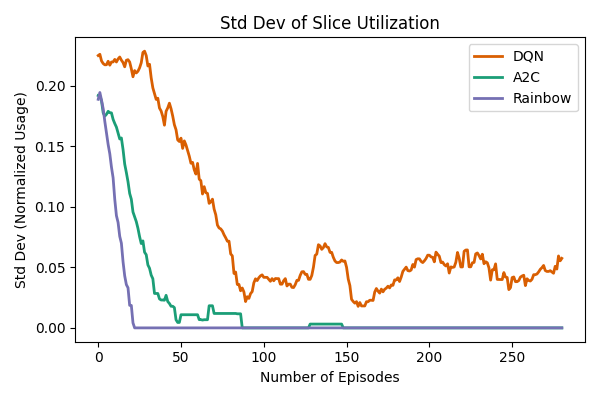
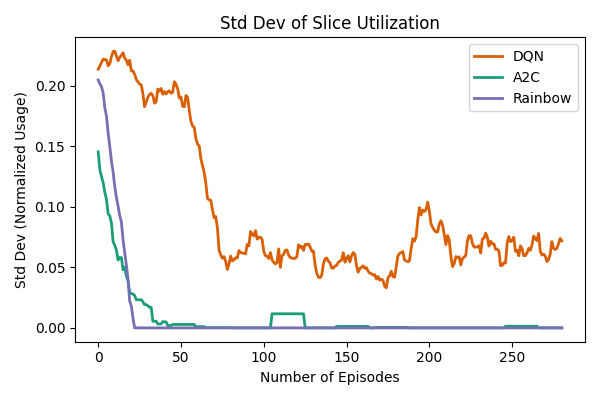
Block rate by slice type

diff --git a/Compare.py b/Compare.py
@@ -33,6 +33,15 @@ rdqn_max_util = []
 dqn_min_util = []
 a2c_min_util = []
 rdqn_min_util = []
+dqn_urllc_blocks = []
+a2c_urllc_blocks = []
+rdqn_urllc_blocks = []
+dqn_embb_blocks = []
+a2c_embb_blocks = []
+rdqn_embb_blocks = []
+dqn_mmtc_blocks = []
+a2c_mmtc_blocks = []
+rdqn_mmtc_blocks = []
 
 print("Checking shapes of all metrics across runs...")
 
@@ -77,6 +86,16 @@ for run_id in range(1, NUM_RUNS + 1):
         dqn_min_util.append(safe_load_metric(dqn_results, 'min_util', max_length))
         a2c_min_util.append(safe_load_metric(a2c_results, 'min_util', max_length))
         rdqn_min_util.append(safe_load_metric(rdqn_results, 'min_util', max_length))
+        # Block histories
+        dqn_urllc_blocks.append(safe_load_metric(dqn_results, 'urllc_blocks', max_length))
+        a2c_urllc_blocks.append(safe_load_metric(a2c_results, 'urllc_blocks', max_length))
+        rdqn_urllc_blocks.append(safe_load_metric(rdqn_results, 'urllc_blocks', max_length))
+        dqn_embb_blocks.append(safe_load_metric(dqn_results, 'embb_blocks', max_length))
+        a2c_embb_blocks.append(safe_load_metric(a2c_results, 'embb_blocks', max_length))
+        rdqn_embb_blocks.append(safe_load_metric(rdqn_results, 'embb_blocks', max_length))
+        dqn_mmtc_blocks.append(safe_load_metric(dqn_results, 'mmtc_blocks', max_length))
+        a2c_mmtc_blocks.append(safe_load_metric(a2c_results, 'mmtc_blocks', max_length))
+        rdqn_mmtc_blocks.append(safe_load_metric(rdqn_results, 'mmtc_blocks', max_length))
     else:
         print(f"Warning: One or more of {dqn_file}, {a2c_file}, or {rdqn_file} not found!")
 
@@ -92,6 +111,15 @@ rdqn_max_util = np.array(rdqn_max_util)
 dqn_min_util = np.array(dqn_min_util)
 a2c_min_util = np.array(a2c_min_util)
 rdqn_min_util = np.array(rdqn_min_util)
+dqn_urllc_blocks = np.array(dqn_urllc_blocks)
+a2c_urllc_blocks = np.array(a2c_urllc_blocks)
+rdqn_urllc_blocks = np.array(rdqn_urllc_blocks)
+dqn_embb_blocks = np.array(dqn_embb_blocks)
+a2c_embb_blocks = np.array(a2c_embb_blocks)
+rdqn_embb_blocks = np.array(rdqn_embb_blocks)
+dqn_mmtc_blocks = np.array(dqn_mmtc_blocks)
+a2c_mmtc_blocks = np.array(a2c_mmtc_blocks)
+rdqn_mmtc_blocks = np.array(rdqn_mmtc_blocks)
 
 # Generate random baseline for load balancing metric
 random_usage = []
@@ -119,6 +147,15 @@ mean_rdqn_max = np.nanmean(rdqn_max_util, axis=0)
 mean_dqn_min = np.nanmean(dqn_min_util, axis=0)
 mean_a2c_min = np.nanmean(a2c_min_util, axis=0)
 mean_rdqn_min = np.nanmean(rdqn_min_util, axis=0)
+mean_dqn_urllc_blocks = np.nanmean(dqn_urllc_blocks, axis=0)
+mean_a2c_urllc_blocks = np.nanmean(a2c_urllc_blocks, axis=0)
+mean_rdqn_urllc_blocks = np.nanmean(rdqn_urllc_blocks, axis=0)
+mean_dqn_embb_blocks = np.nanmean(dqn_embb_blocks, axis=0)
+mean_a2c_embb_blocks = np.nanmean(a2c_embb_blocks, axis=0)
+mean_rdqn_embb_blocks = np.nanmean(rdqn_embb_blocks, axis=0)
+mean_dqn_mmtc_blocks = np.nanmean(dqn_mmtc_blocks, axis=0)
+mean_a2c_mmtc_blocks = np.nanmean(a2c_mmtc_blocks, axis=0)
+mean_rdqn_mmtc_blocks = np.nanmean(rdqn_mmtc_blocks, axis=0)
 
 def smooth(data, window=20):
     return np.convolve(data, np.ones(window)/window, mode='valid')
@@ -165,7 +202,49 @@ def plot_std_metric():
     plt.savefig('Std_Utilization.png')
     plt.close()
 
+def plot_block_rate_urllc():
+    plt.figure(figsize=(6, 4))
+    plt.plot(smooth(mean_dqn_urllc_blocks), label='DQN', color='#d95f02', linestyle='-')
+    plt.plot(smooth(mean_a2c_urllc_blocks), label='A2C', color='#1b9e77', linestyle='-')
+    plt.plot(smooth(mean_rdqn_urllc_blocks), label='Rainbow', color='#7570b3', linestyle='-')
+    plt.title("Block Rate - URLLC Slice")
+    plt.xlabel("Number of Episodes")
+    plt.ylabel("Mean Block Count per Episode")
+    plt.legend()
+    plt.tight_layout()
+    plt.savefig('Block_Rate_URRLC.png')
+    plt.close()
+
+def plot_block_rate_embb():
+    plt.figure(figsize=(6, 4))
+    plt.plot(smooth(mean_dqn_embb_blocks), label='DQN', color='#d95f02', linestyle='--')
+    plt.plot(smooth(mean_a2c_embb_blocks), label='A2C', color='#1b9e77', linestyle='--')
+    plt.plot(smooth(mean_rdqn_embb_blocks), label='Rainbow', color='#7570b3', linestyle='--')
+    plt.title("Block Rate - eMBB Slice")
+    plt.xlabel("Number of Episodes")
+    plt.ylabel("Mean Block Count per Episode")
+    plt.legend()
+    plt.tight_layout()
+    plt.savefig('Block_Rate_eMBB.png')
+    plt.close()
+
+def plot_block_rate_mmtc():
+    plt.figure(figsize=(6, 4))
+    plt.plot(smooth(mean_dqn_mmtc_blocks), label='DQN', color='#d95f02', linestyle=':')
+    plt.plot(smooth(mean_a2c_mmtc_blocks), label='A2C', color='#1b9e77', linestyle=':')
+    plt.plot(smooth(mean_rdqn_mmtc_blocks), label='Rainbow', color='#7570b3', linestyle=':')
+    plt.title("Block Rate - mMTC Slice")
+    plt.xlabel("Number of Episodes")
+    plt.ylabel("Mean Block Count per Episode")
+    plt.legend()
+    plt.tight_layout()
+    plt.savefig('Block_Rate_mMTC.png')
+    plt.close()
+
 # Optionally, add similar plots for max/min utilization
 
 plot_results()
 plot_std_metric()
+plot_block_rate_urllc()
+plot_block_rate_embb()
+plot_block_rate_mmtc()

diff --git a/DQN.py b/DQN.py
@@ -40,6 +40,7 @@ EPSILON_DECAY = 100
 class RANEnv:
     def __init__(self):
         self.slice_quotas = np.array([URLLC_QUOTA, EMBB_QUOTA, MMTC_QUOTA])
+        self.util_threshold = 0.9  # Utilization threshold for positive reward
         self.reset()
 
     def reset(self):
@@ -57,6 +58,7 @@ class RANEnv:
         done = False
         admitted = False
         blocked = False
+        sla_violated = False
         slice_idx = TRAFFIC_TYPES.index(traffic_type)
         # Define PRB request ranges for each slice
         if traffic_type == 'URLLC':
@@ -74,16 +76,21 @@ class RANEnv:
                 admitted = True
             else:
                 blocked = True
+                sla_violated = True  # Blocked means SLA not met
 
-        # Reward: negative std deviation of normalized usages (encourage balance)
         norm_usages = self.usages / self.slice_quotas
-        reward = -np.std(norm_usages)
-        # Penalty for blocking
-        if blocked:
-            reward -= 0.2
+        reward = -np.std(norm_usages)  # Encourage balance
+
+        # Positive reward if all slices are below threshold
+        if np.all(norm_usages < self.util_threshold):
+            reward += 0.2
+
+        # Penalty for SLA violation or overloaded slice
+        if sla_violated or np.any(norm_usages > 1.0):
+            reward -= 0.3
 
         next_state = self._get_state()
-        return next_state, reward, done, admitted, blocked, False, traffic_type
+        return next_state, reward, done, admitted, blocked, sla_violated, traffic_type
 
 # ================================
 # DQN Network

diff --git a/RDQN.py b/RDQN.py
@@ -39,6 +39,7 @@ BETA_START = 0.4
 class RANEnv:
     def __init__(self):
         self.slice_quotas = np.array([URLLC_QUOTA, EMBB_QUOTA, MMTC_QUOTA])
+        self.util_threshold = 0.9
         self.reset()
 
     def reset(self):
@@ -56,6 +57,7 @@ class RANEnv:
         done = False
         admitted = False
         blocked = False
+        sla_violated = False
         slice_idx = TRAFFIC_TYPES.index(traffic_type)
         if traffic_type == 'URLLC':
             request_prbs = np.random.randint(1, 5)
@@ -71,14 +73,19 @@ class RANEnv:
                 admitted = True
             else:
                 blocked = True
+                sla_violated = True
 
         norm_usages = self.usages / self.slice_quotas
         reward = -np.std(norm_usages)
-        if blocked:
-            reward -= 0.2
+
+        if np.all(norm_usages < self.util_threshold):
+            reward += 0.2
+
+        if sla_violated or np.any(norm_usages > 1.0):
+            reward -= 0.3
 
         next_state = self._get_state()
-        return next_state, reward, done, admitted, blocked, False, traffic_type
+        return next_state, reward, done, admitted, blocked, sla_violated, traffic_type
 
 # ================================
 # Rainbow DQN Network

diff --git a/A2C.py b/A2C.py
@@ -36,6 +36,7 @@ STEPS_PER_EPISODE = 50
 class RANEnv:
     def __init__(self):
         self.slice_quotas = np.array([URLLC_QUOTA, EMBB_QUOTA, MMTC_QUOTA])
+        self.util_threshold = 0.9
         self.reset()
 
     def reset(self):
@@ -52,6 +53,7 @@ class RANEnv:
         done = False
         admitted = False
         blocked = False
+        sla_violated = False
         slice_idx = TRAFFIC_TYPES.index(traffic_type)
         if traffic_type == 'URLLC':
             request_prbs = np.random.randint(1, 5)
@@ -67,14 +69,19 @@ class RANEnv:
                 admitted = True
             else:
                 blocked = True
+                sla_violated = True
 
         norm_usages = self.usages / self.slice_quotas
         reward = -np.std(norm_usages)
-        if blocked:
-            reward -= 0.2
+
+        if np.all(norm_usages < self.util_threshold):
+            reward += 0.2
+
+        if sla_violated or np.any(norm_usages > 1.0):
+            reward -= 0.3
 
         next_state = self._get_state()
-        return next_state, reward, done, admitted, blocked, False, traffic_type
+        return next_state, reward, done, admitted, blocked, sla_violated, traffic_type
 
 # ================================
 # A2C Networks
